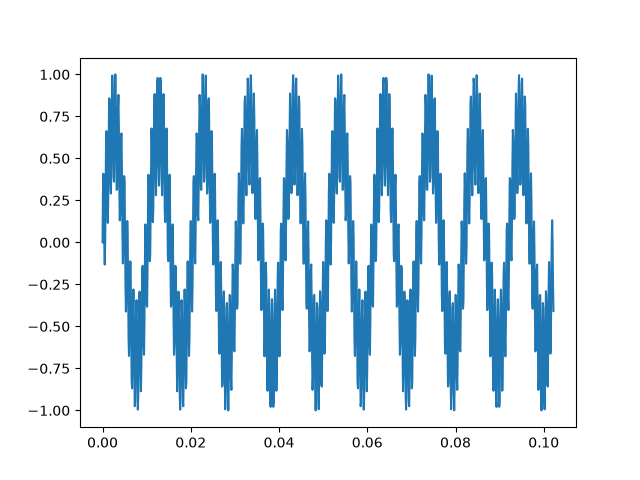
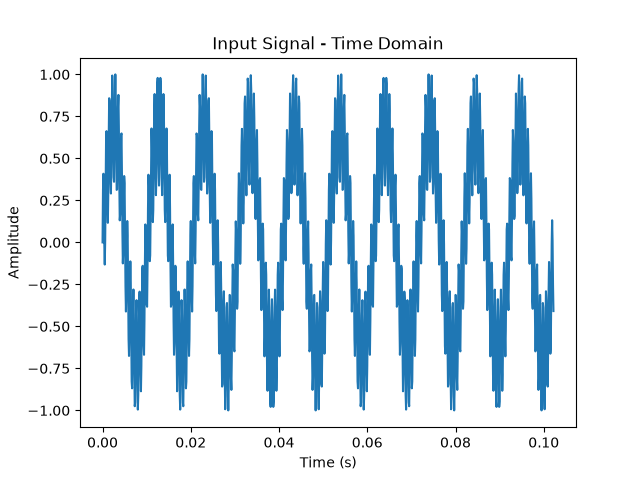
includes axes and title on generated plots

Changed region(s): [[0.3438, 0.0625, 0.6875, 0.125], [0.0, 0.4375, 0.0312, 0.5938], [0.4688, 0.9375, 0.5625, 0.9688]]

diff --git a/FIR/python/fir_design.py b/FIR/python/fir_design.py
@@ -18,6 +18,10 @@ x = x / np.max(np.abs(x))                           # Normalize to -1 to +1
 # time domain plot
 plt.figure()
 plt.plot(t, x)
+plt.title("Input Signal - Time Domain")
+plt.xlabel("Time (s)")
+plt.ylabel("Amplitude")
+plt.title("Input Signal - Time Domain")
 plt.savefig("../docs/input_time_domain.png")
 
 # frequency domain plot
@@ -28,6 +32,10 @@ x_fdomain = np.absolute(x_fdomain)
 
 plt.figure()
 plt.plot(f, x_fdomain)
+plt.title("Input Signal - Frequency Domain")
+plt.xlabel("Frequency (Hz)")
+plt.ylabel("Magnitude")
+plt.title("Input Signal - Frequency Domain")
 plt.savefig("../docs/input_frequency_domain.png")
 
 # writes the signal values in hex to input_signal.hex
@@ -61,6 +69,9 @@ with open("../hex/output_signal.hex", "r") as file:
 
 plt.figure()
 plt.plot(t, y)
+plt.title("Output Signal - Time Domain")
+plt.xlabel("Time (s)")
+plt.ylabel("Amplitude")
 plt.savefig("../docs/output_time_domain.png")
 
 f = np.array(f)
@@ -72,6 +83,9 @@ y_fdomain = np.absolute(y_fdomain)
 
 plt.figure()
 plt.plot(f, y_fdomain)
+plt.title("Output Signal - Frequency Domain")
+plt.xlabel("Frequency (Hz)")
+plt.ylabel("Magnitude")
 plt.savefig("../docs/output_frequency_domain.png")
 
 plt.show()
